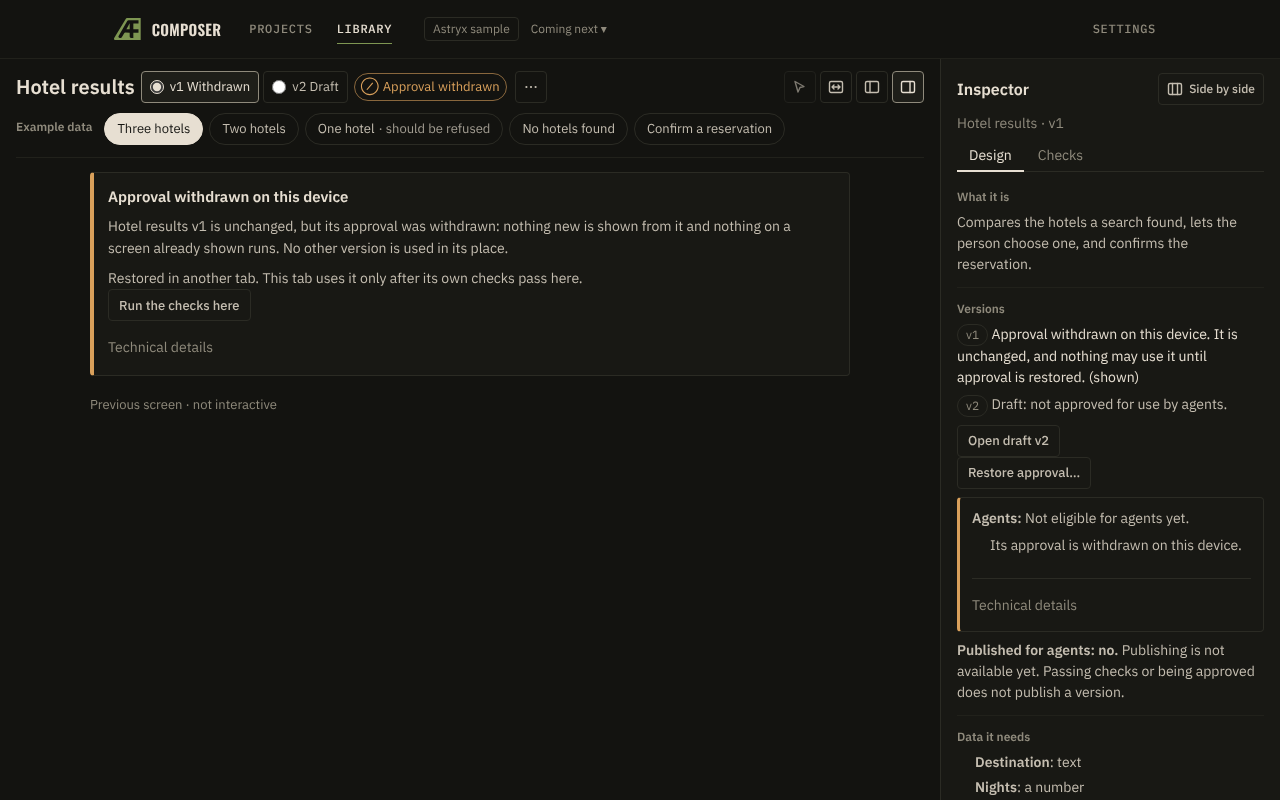
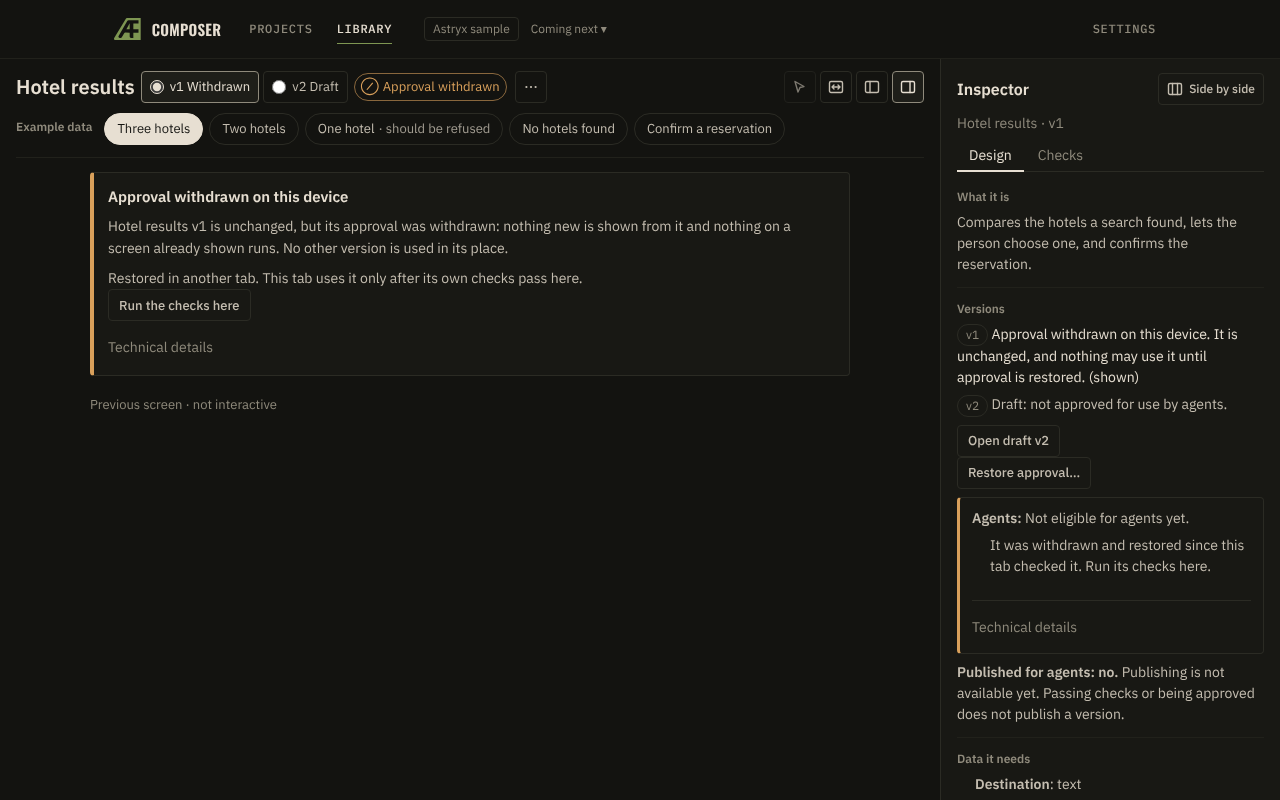
wip: eligibility stale wording, screenshots

Changed region(s): [[0.75, 0.75, 0.9688, 1.0], [0.7812, 0.6562, 0.9688, 0.7188]]

diff --git a/apps/composer/experimental/workspace/eligibility.ts b/apps/composer/experimental/workspace/eligibility.ts
@@ -52,8 +52,9 @@ export async function agentEligibility(input: {
   if (c.status !== "approved") reasons.push({ kind: "status", text: "Only an approved version can be used by agents; this is a draft." });
   if (!authority.available) reasons.push({ kind: "authority", text: `This browser cannot keep authorization safely (${authority.reason}), so nothing is eligible here.` });
   const standing = approvalStanding(record, c, sha, approvalGeneration ?? -1);
-  if (standing === "withdrawn" || host?.isWithdrawn(c.id)) reasons.push({ kind: "withdrawn", text: "Its approval is withdrawn on this device." });
-  else if (standing === "stale") reasons.push({ kind: "stale", text: "It was withdrawn and restored since this tab checked it. Run its checks here." });
+  if (standing === "withdrawn") reasons.push({ kind: "withdrawn", text: "Its approval is withdrawn on this device." });
+  // Not withdrawn in the record, but this tab's approval predates a withdrawal (or this tab still refuses it).
+  else if (standing === "stale" || host?.isWithdrawn(c.id)) reasons.push({ kind: "stale", text: "It was withdrawn and restored since this tab checked it. Run its checks here." });
   const current = !!check?.approval && check.definition === c && samePins(check.approval.pins, await pinsFor(governor, c));
   if (c.status === "approved" && !current) reasons.push({ kind: "checks", text: "Its checks have not passed under the current rules, profile and toolchain." });
   for (const i of interactionIssues(c)) reasons.push({ kind: "safety", text: i.text.replace(/ (Mask|Make|Declare) [^.]*before this version can be approved\.$/, "") });

diff --git a/apps/composer/experimental/workspace/eligibility.test.ts b/apps/composer/experimental/workspace/eligibility.test.ts
@@ -63,7 +63,7 @@ describe("agent eligibility", () => {
     const restored = await restoreApproval({ governor, definition, host: other, authority });
     expect(restored.ok).toBe(true);
     // This tab's host is still withdrawn.
-    expect((await ask({ record: shared.record })).reasons.map((r) => r.kind)).toEqual(["withdrawn"]);
+    expect((await ask({ record: shared.record })).reasons.map((r) => r.kind)).toEqual(["stale"]);
     expect((await ask({ record: shared.record, host: undefined })).reasons.map((r) => r.kind)).toEqual(["stale"]);
     expect(await ask({ record: shared.record, host: other, approvalGeneration: restored.ok ? restored.approvalGeneration : -1 })).toMatchObject({ eligible: true });
   });

diff --git a/e2e/composer-authority.spec.ts b/e2e/composer-authority.spec.ts
@@ -166,6 +166,7 @@ test.describe("agent eligibility (R4)", () => {
     await expect(b.getByTestId("restored-elsewhere")).toBeVisible();
     await inspector(b);
     await expect(b.getByTestId("agent-eligibility")).toHaveAttribute("data-eligible", "false");
+    await expect(b.getByTestId("agent-eligibility-reasons")).toContainText("Run its checks here.");
     await shot(b, "03-restored-elsewhere");
     await b.getByTestId("restored-elsewhere-check").click();
     await expect(b.getByTestId("agent-eligibility")).toHaveAttribute("data-eligible", "true", { timeout: 20_000 });
